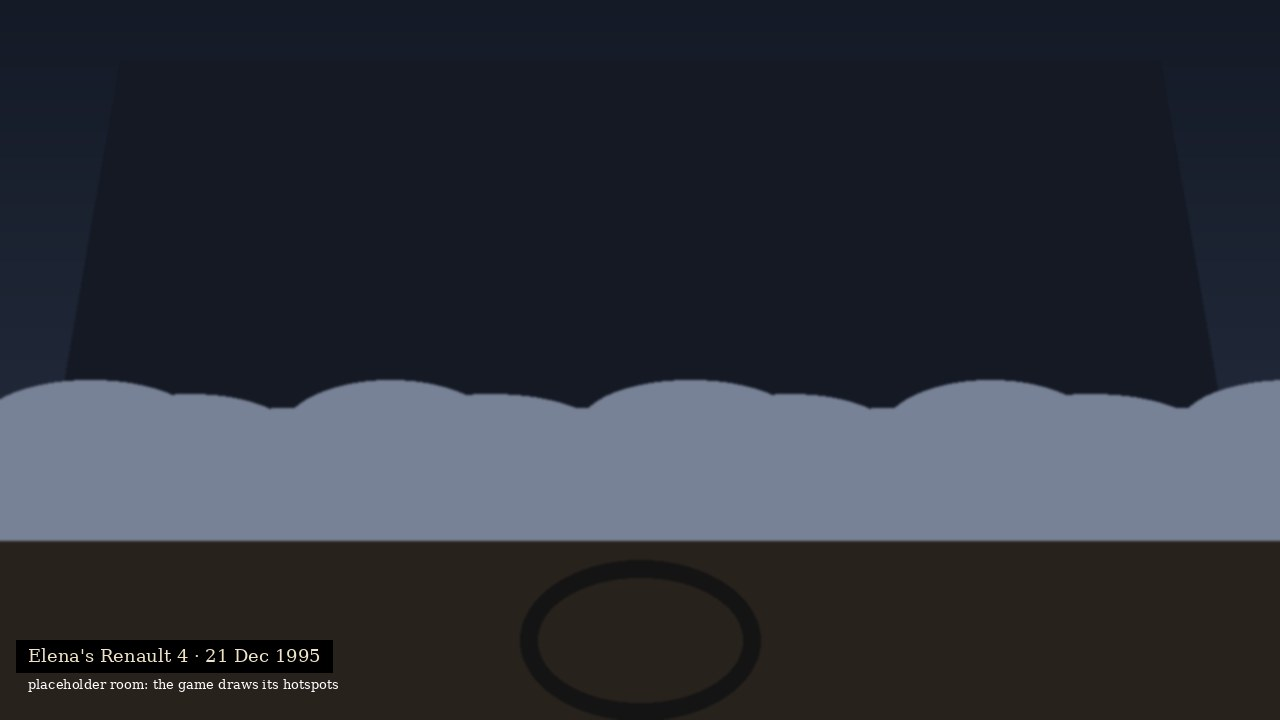
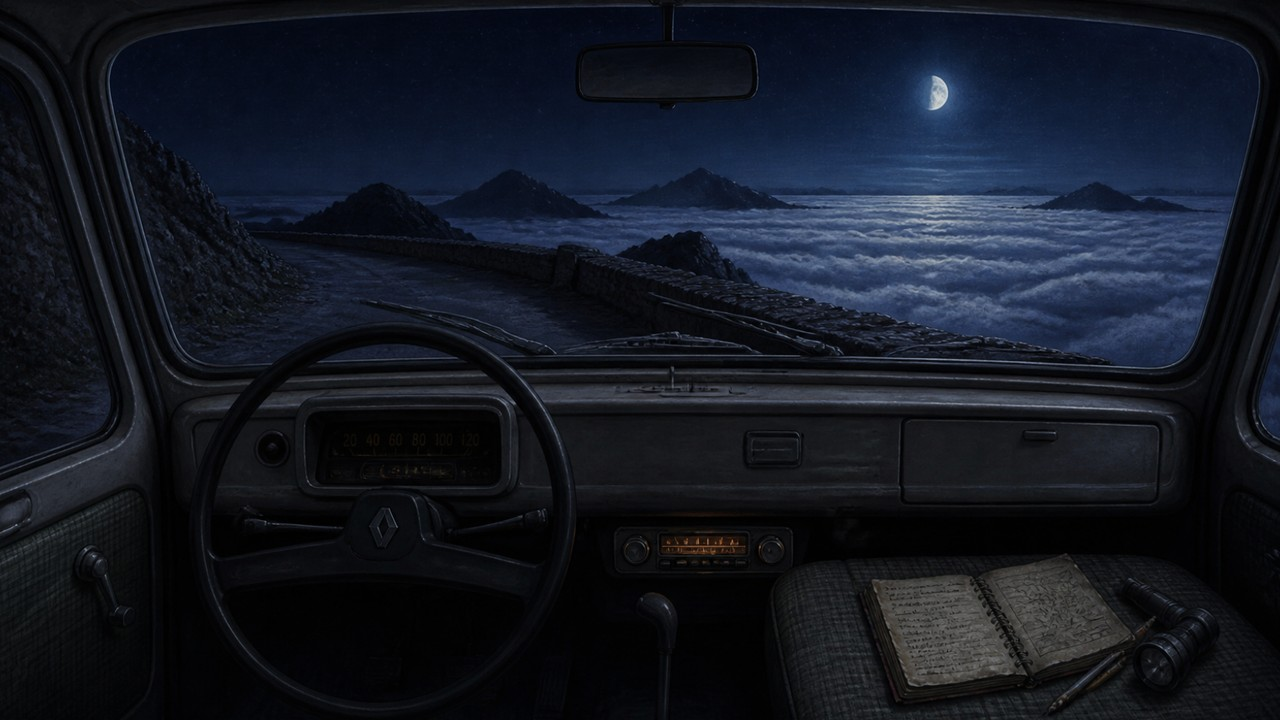
Sequel: Elena's Renault 4 painted in Canva, with its layout and a ?scene=elenacar preview
Claude-Session: https://claude.ai/code/session_016HTeTNSXEDV8gmJrtKWM3n

diff --git a/sequel/js/story/main.js b/sequel/js/story/main.js
@@ -53,6 +53,7 @@
     vault: { flags: { ch: 5, isleta_flood: true, v_understood: true, v_fuse_seen: true, v_refused: true }, room: 'vault', pos: [620, 660, 'e'], run: async () => { S.becomeVasco(); ['ltrowel', 'torch'].forEach(k => S.give(k, true)); S.torch = 1; } },
     sun: { flags: { ch: 6, v_done: true }, room: 'hotel_room', pos: [720, 640, 'e'], run: () => S.theChoice() },
     carmen: { flags: { ch: 6, chose_carmen: true, cave_explained: true }, room: 'map', pos: [640, 660, 'e'], run: () => G.goRoom('carmen_flat', 'map') },
+    elenacar: { flags: { ch: 0 }, room: 'elena_car', pos: [640, 660, 'e'], run: async () => {} },
     landrover: { flags: { ch: 6, chose_carmen: true, knows_vault: true }, room: 'landrover', pos: [640, 660, 'e'], run: async () => {} },
     rescue: { flags: { ch: 6, chose_carmen: true, knows_vault: true, driving: true, radiator_filled: true }, room: 'camp', pos: [300, 660, 'e'], run: async () => {} },
     finale: { flags: { ch: 6, vasco_free: true, v_marked: true }, room: 'vault', pos: [400, 660, 'e'], run: () => S.takeDiscs() },

diff --git a/sequel/js/sprites_placeholders.js b/sequel/js/sprites_placeholders.js
@@ -515,4 +515,4 @@ window.SPRITES = Object.assign(window.SPRITES || {}, {
 "w": 300
 }
 });
-window.PLACEHOLDER_ART = {"bg": ["elena_car", "map", "title"], "stills": ["still_arrival", "still_bad_ending", "still_barranco", "still_caught", "still_chain", "still_cloud_climb", "still_elena_bar", "still_fight", "still_fireworks", "still_isleta_flood", "still_love_1", "still_love_2", "still_mist", "still_pepe", "still_rafa_drawing", "still_rafa_night", "still_road_down", "still_sunrise", "still_title", "still_vault_dark"]};
+window.PLACEHOLDER_ART = {"bg": ["map", "title"], "stills": ["still_arrival", "still_bad_ending", "still_barranco", "still_caught", "still_chain", "still_cloud_climb", "still_elena_bar", "still_fight", "still_fireworks", "still_isleta_flood", "still_love_1", "still_love_2", "still_mist", "still_pepe", "still_rafa_drawing", "still_rafa_night", "still_road_down", "still_sunrise", "still_title", "still_vault_dark"]};

diff --git a/sequel/index.html b/sequel/index.html
@@ -68,7 +68,7 @@
 </div>
 <script src="js/lines.js?v=1d91057b"></script>
 <script src="js/sprites_game1.js?v=acdd4454"></script>
-<script src="js/sprites_placeholders.js?v=e16986d0"></script>
+<script src="js/sprites_placeholders.js?v=1edc4251"></script>
 <script src="js/sprites_canva.js?v=5bbfad3b"></script>
 <script src="js/fx.js?v=6264ea85"></script>
 <script src="js/audio.js?v=ee3c71e9"></script>
@@ -102,7 +102,7 @@
 <script src="js/story/vasco.js?v=212fd3a2"></script>
 <script src="js/story/sun.js?v=1068e7a9"></script>
 <script src="js/story/mon.js?v=9680e820"></script>
-<script src="js/story/layout.js?v=e6092380"></script>
-<script src="js/story/main.js?v=7b210529"></script>
+<script src="js/story/layout.js?v=92ab2234"></script>
+<script src="js/story/main.js?v=10588250"></script>
 </body>
 </html>

diff --git a/sequel/js/story/layout.js b/sequel/js/story/layout.js
@@ -50,6 +50,10 @@
       npcs: { vasco: [620, 620], yeray: [930, 650] },
       at: { 'Crates': [250, 650], 'Left anchor': [400, 600], 'Right anchor': [810, 600], 'The wall by the grille': [900, 620], 'Steps up': [1080, 640] },
     },
+    elena_car: {
+      spots: { 'The radio': [605, 515, 190, 50], 'Notebook on the passenger seat': [850, 550, 290, 165], 'The rear-view mirror': [575, 40, 185, 65],
+        'The window crank': [50, 535, 90, 85], 'The air': [130, 60, 1080, 280] },
+    },
     landrover: {
       spots: { 'Carmen': [20, 90, 480, 560], 'Temperature gauge': [545, 440, 265, 100], 'The bonnet': [280, 300, 700, 110], 'The footwell': [850, 575, 390, 145] },
     },

diff --git a/sequel/art/canva/log.md b/sequel/art/canva/log.md
@@ -27,3 +27,4 @@
 - 2026-10-27 figure `montesdeoca_surfer` Canva media MAHZP7cSX5w -> art/designs/montesdeoca_surfer.png 
 - 2026-10-27 bg `vault` Canva media MAHZP5eMvdg -> art/bg/vault.jpg 
 - 2026-10-27 bg `landrover` Canva media MAHZP1XAB10 -> art/bg/landrover.jpg 
+- 2026-10-27 bg `elena_car` Canva media MAHZP97wAiY -> art/bg/elena_car.jpg 
